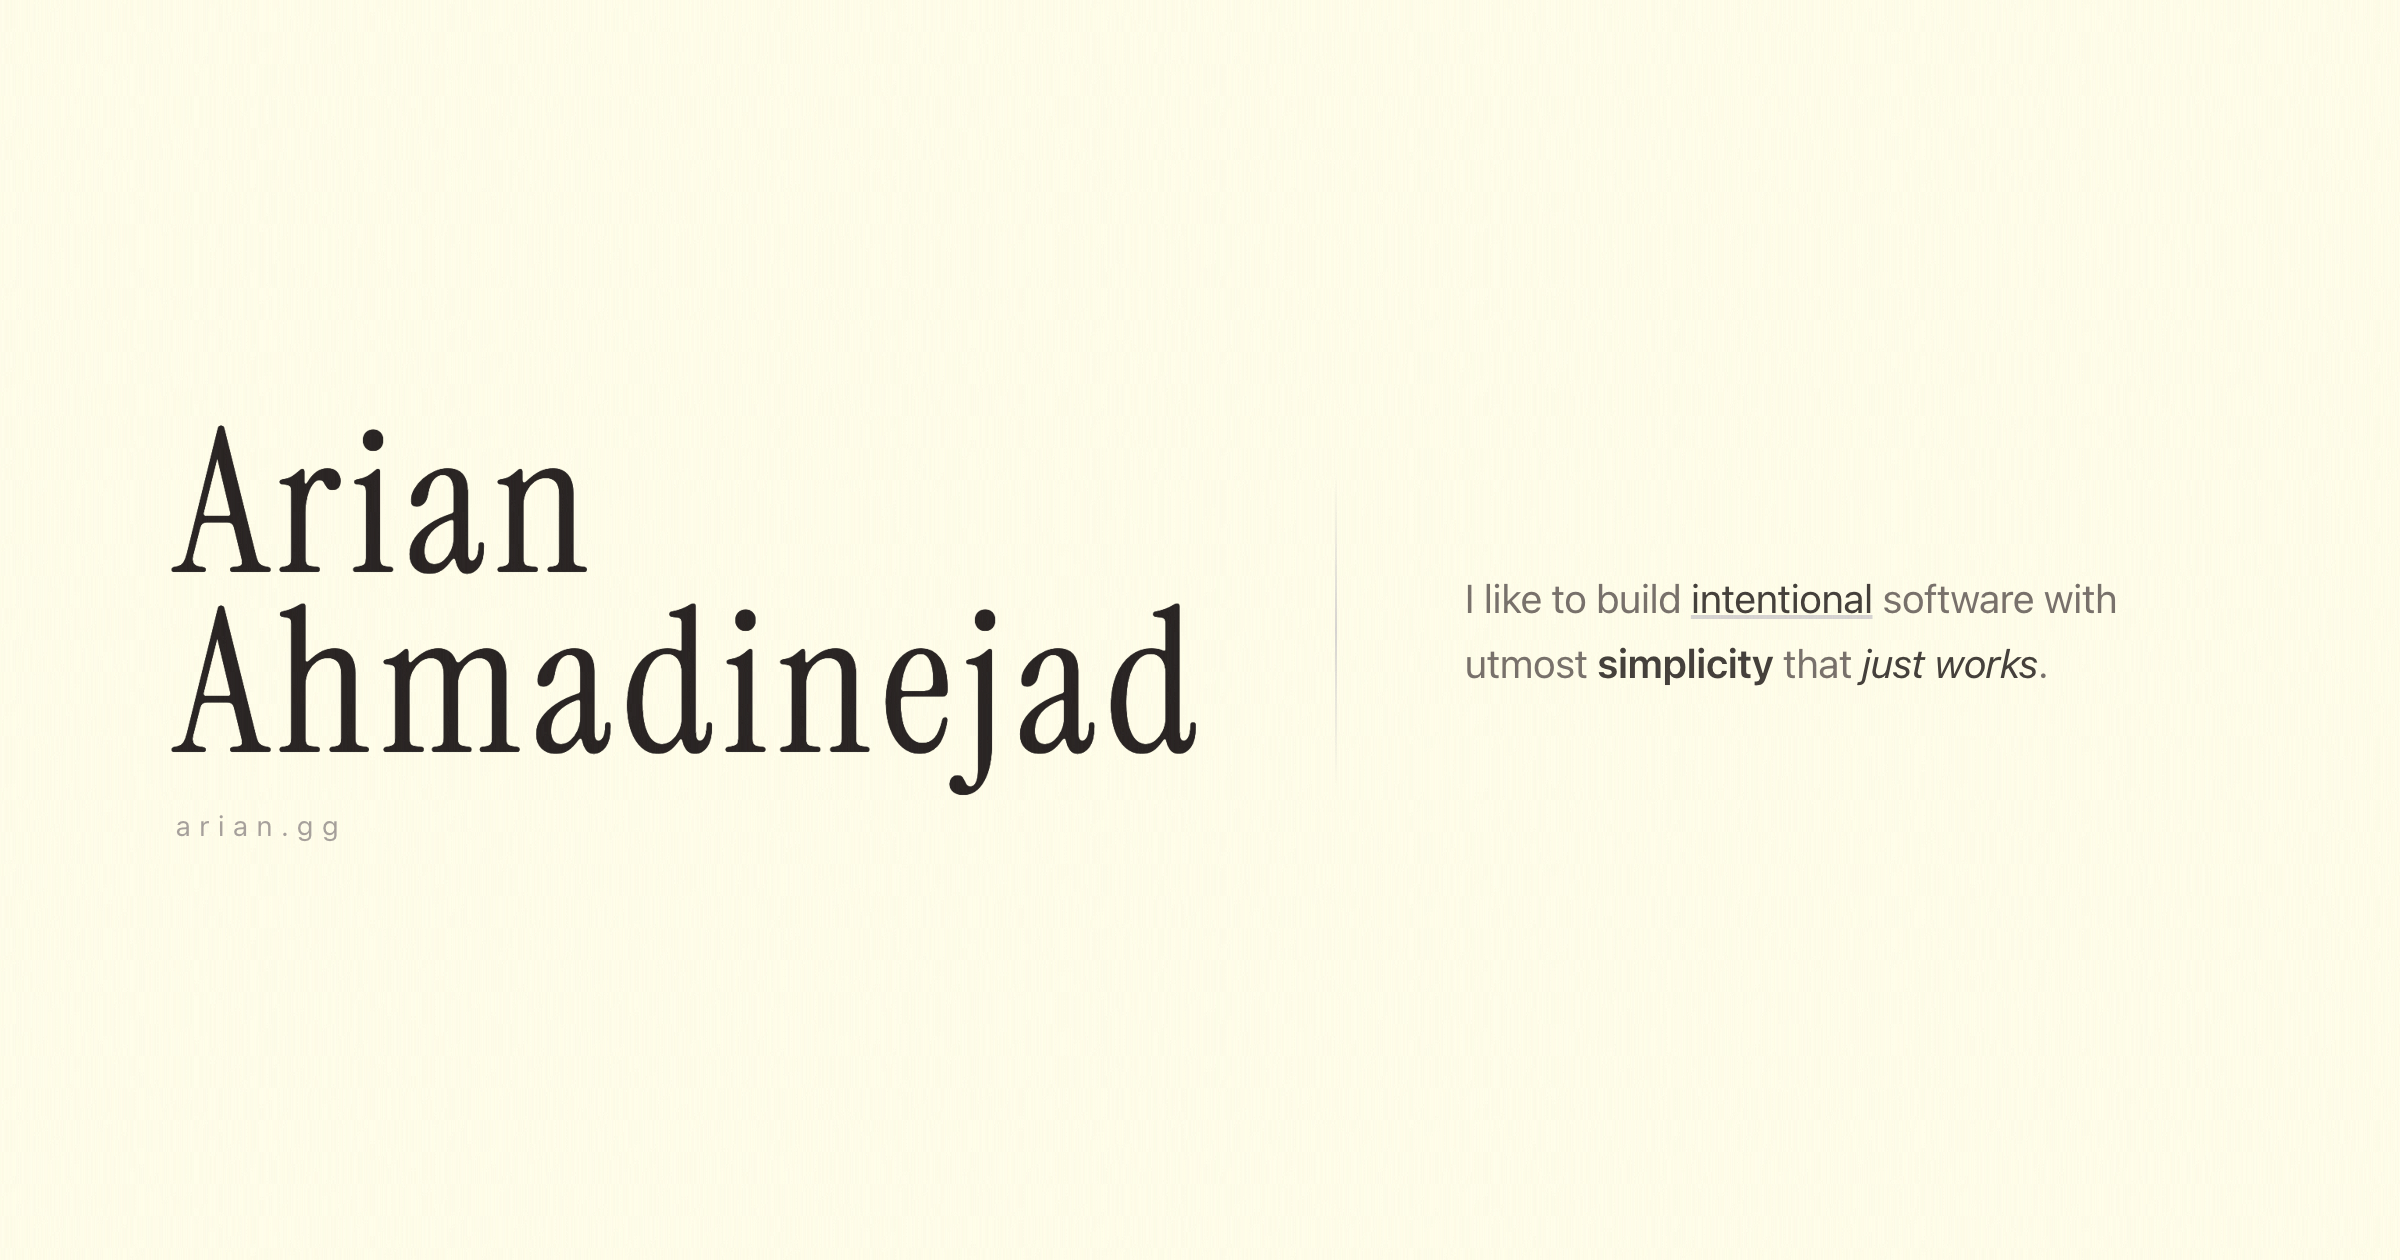
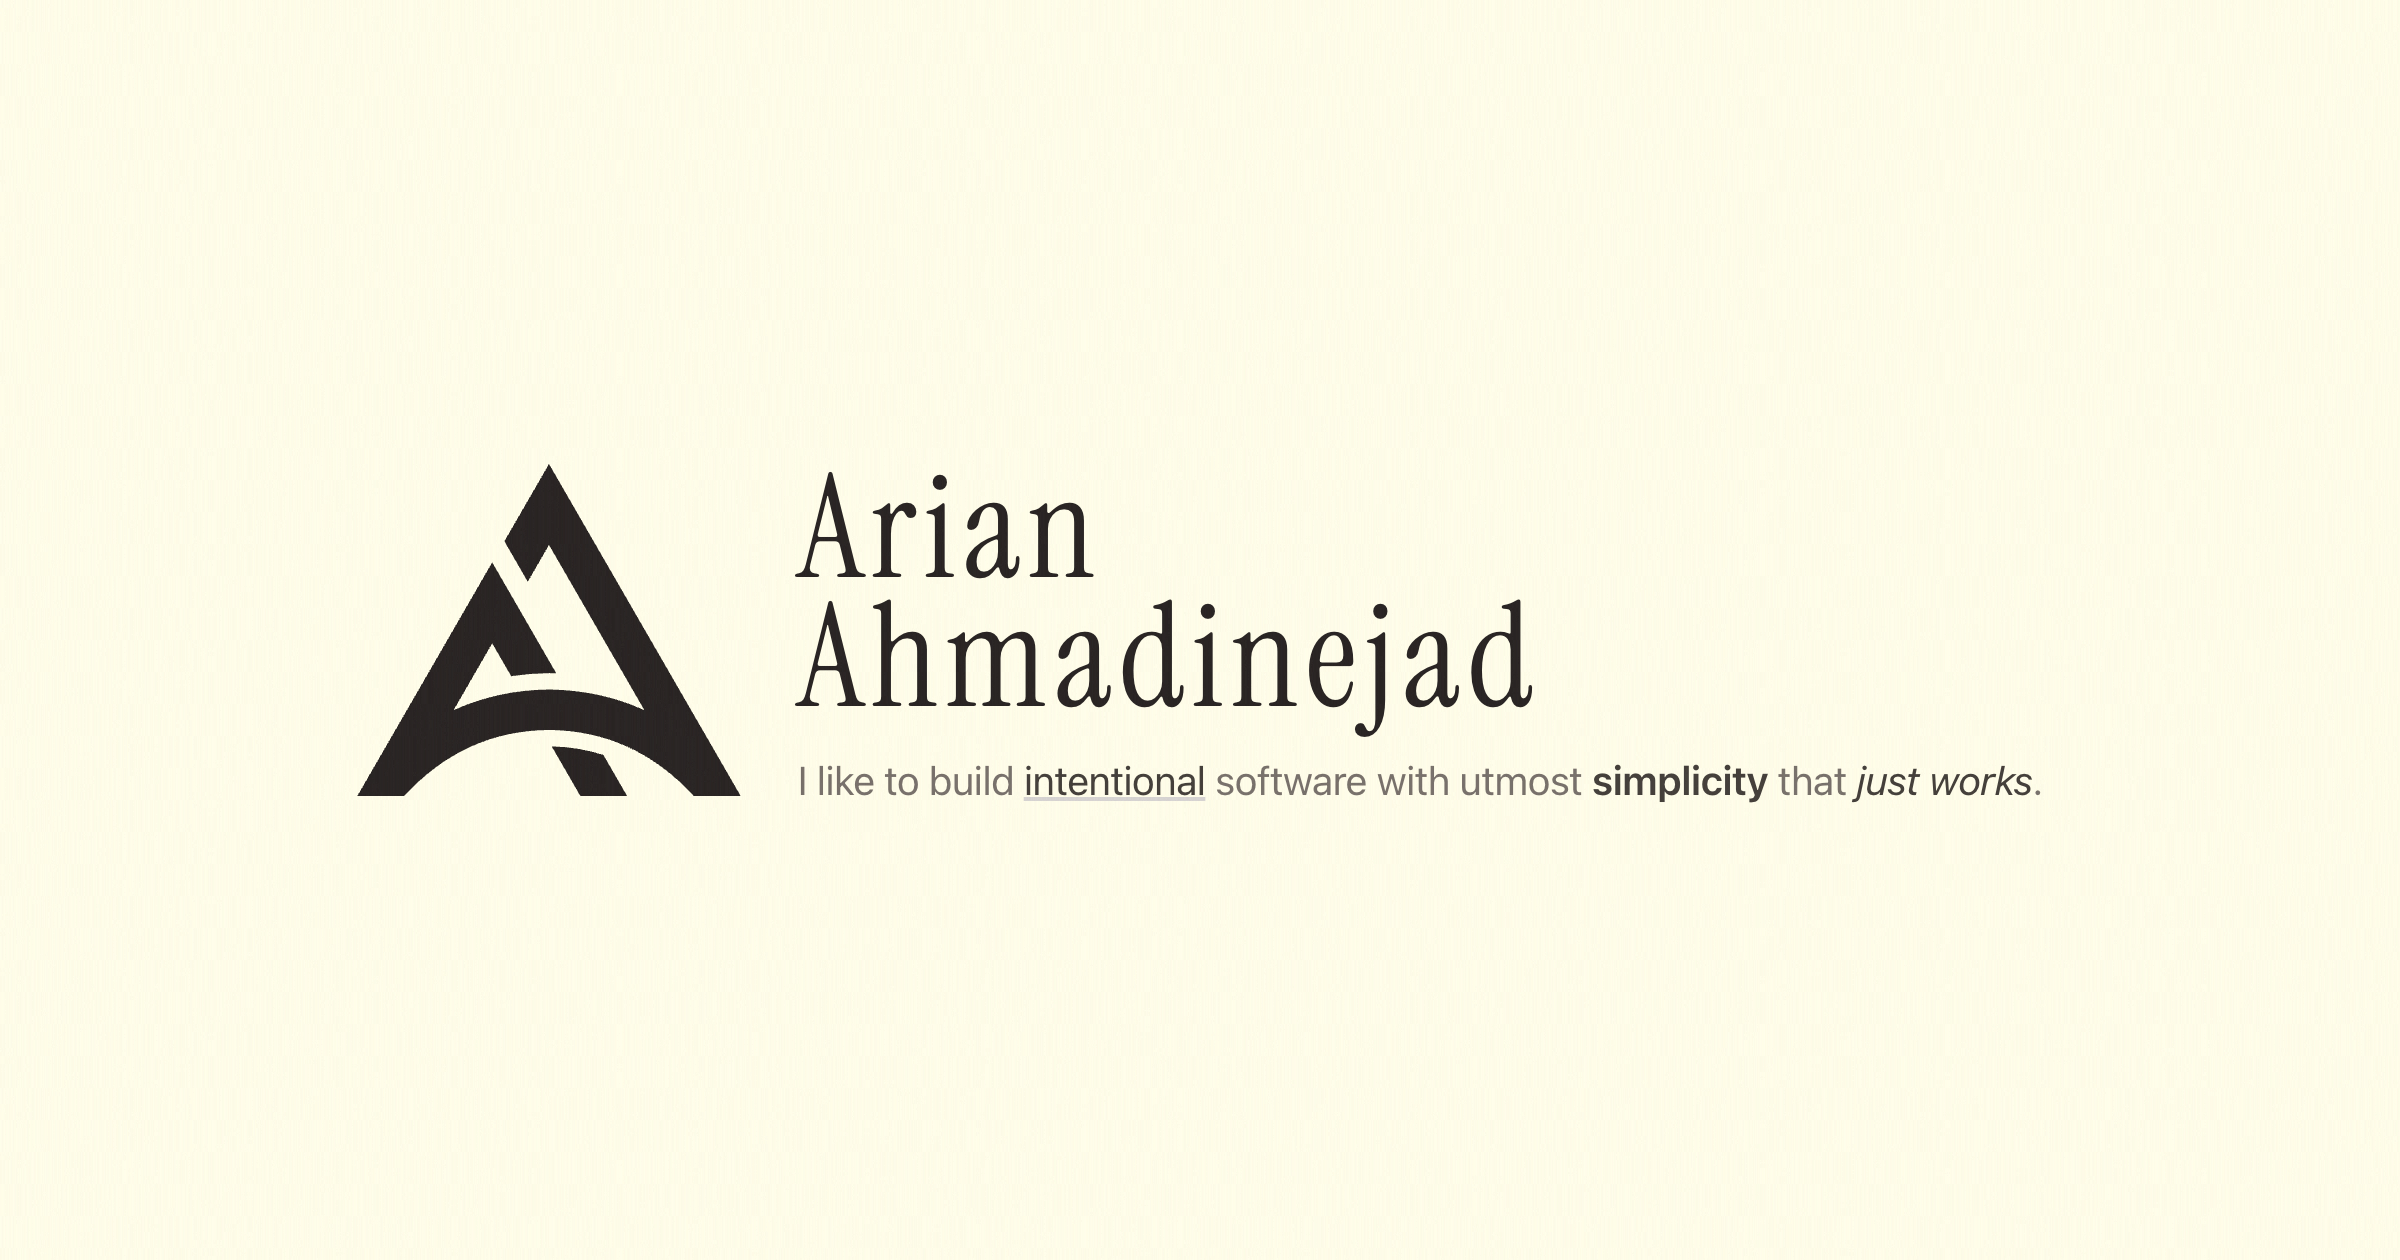
feat: update og

Changed region(s): [[0.0625, 0.3405, 0.875, 0.65]]

diff --git a/src/routes/meta/+page.svelte b/src/routes/meta/+page.svelte
@@ -1,17 +1,22 @@
-<div class="flex h-full w-full items-center justify-center gap-16 bg-yellow-50 px-20">
-	<div class="flex flex-col">
-		<h1
-			class="font-instrument text-[100px] leading-[0.9] font-medium tracking-wider text-stone-800"
-		>
-			Arian<br />Ahmadinejad
-		</h1>
-		<span class="mt-4 text-sm tracking-[0.3em] text-stone-400">arian.gg</span>
+<script lang="ts">
+	import Logo from '$lib/components/Logo.svelte';
+</script>
+
+<div class="flex h-full w-full items-center justify-center bg-yellow-50">
+	<div class="flex items-stretch gap-7">
+		<div class="flex flex-col items-center gap-4">
+			<Logo class="w-48 text-stone-800" />
+			<!-- <span class="text-lg tracking-[0.3em] text-stone-400">arian.gg</span> -->
+		</div>
+		<div class="flex flex-col justify-between">
+			<h1 class="font-instrument text-7xl leading-[0.9] font-medium tracking-wider text-stone-800">
+				Arian<br />Ahmadinejad
+			</h1>
+			<p class="translate-y-2 text-xl leading-relaxed whitespace-nowrap text-stone-500">
+				I like to build <u class="text-stone-700 decoration-stone-300">intentional</u> software with
+				utmost <strong class="font-semibold text-stone-700">simplicity</strong> that
+				<i class="text-stone-700">just works</i>.
+			</p>
+		</div>
 	</div>
-	<div class="h-40 w-px bg-linear-to-b from-transparent via-stone-300 to-transparent"></div>
-	<p class="max-w-95 text-xl leading-relaxed text-stone-500">
-		I like to build <u class="text-stone-700 decoration-stone-300">intentional</u> software with
-		utmost
-		<strong class="font-semibold text-stone-700">simplicity</strong>
-		that <i class="text-stone-700">just works</i>.
-	</p>
 </div>

diff --git a/src/routes/+page.svelte b/src/routes/+page.svelte
@@ -13,7 +13,7 @@
 
 <div class="flex w-full min-w-0 flex-col gap-2 p-5 pt-10 md:p-10 lg:h-screen lg:overflow-hidden">
 	<header class="flex -translate-y-7 justify-between">
-		<Logo class="w-6" />
+		<Logo class="w-6 text-stone-900 dark:text-yellow-50" />
 		<div class="flex gap-1 text-sm">
 			{#each ['light', 'dark', 'system'] as state, i (state)}
 				{#if i > 0}<span class="text-stone-300 select-none dark:text-stone-600">/</span>{/if}
